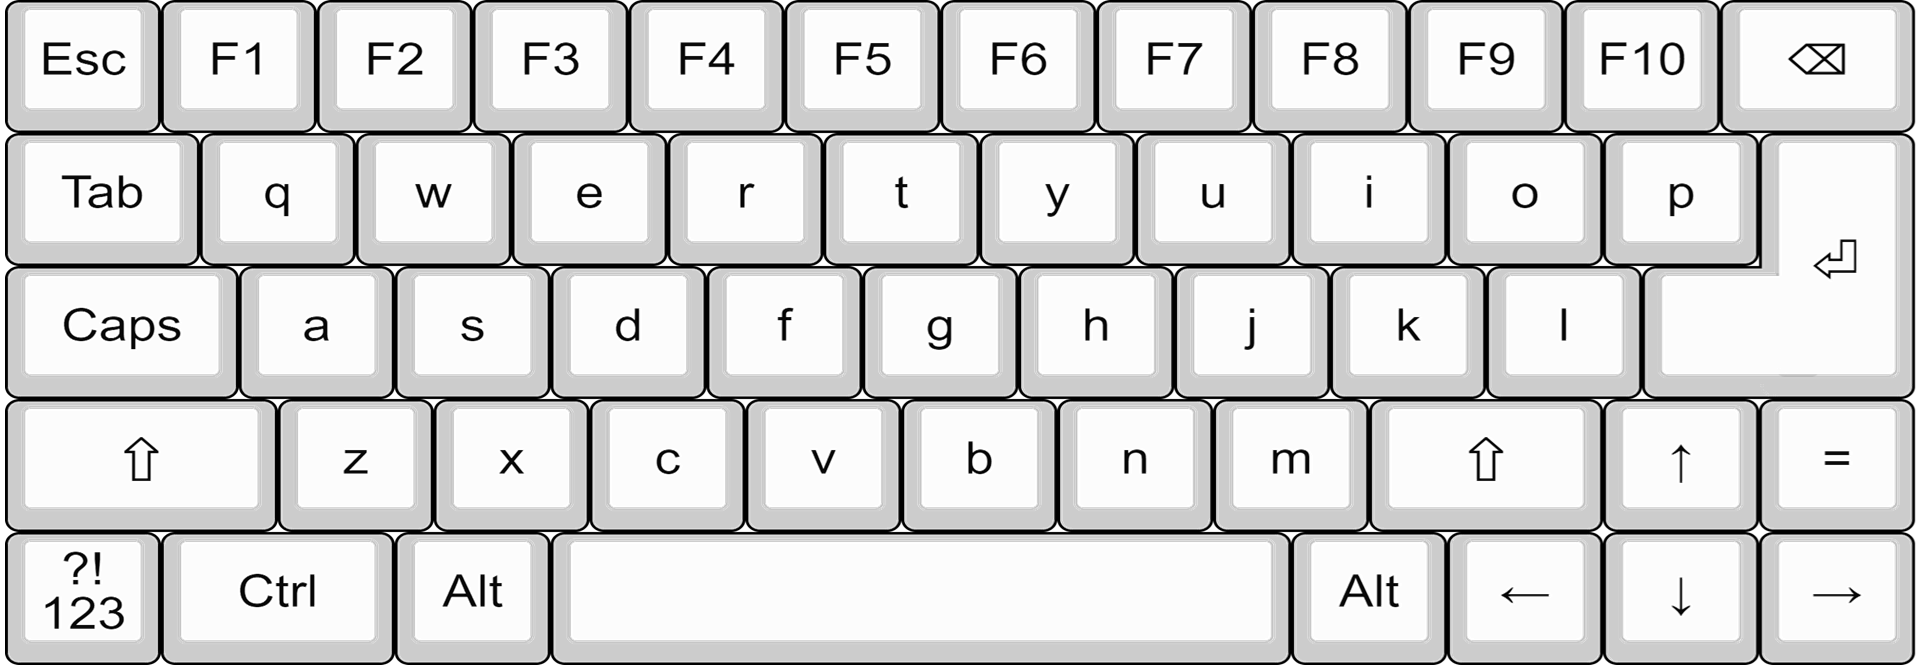
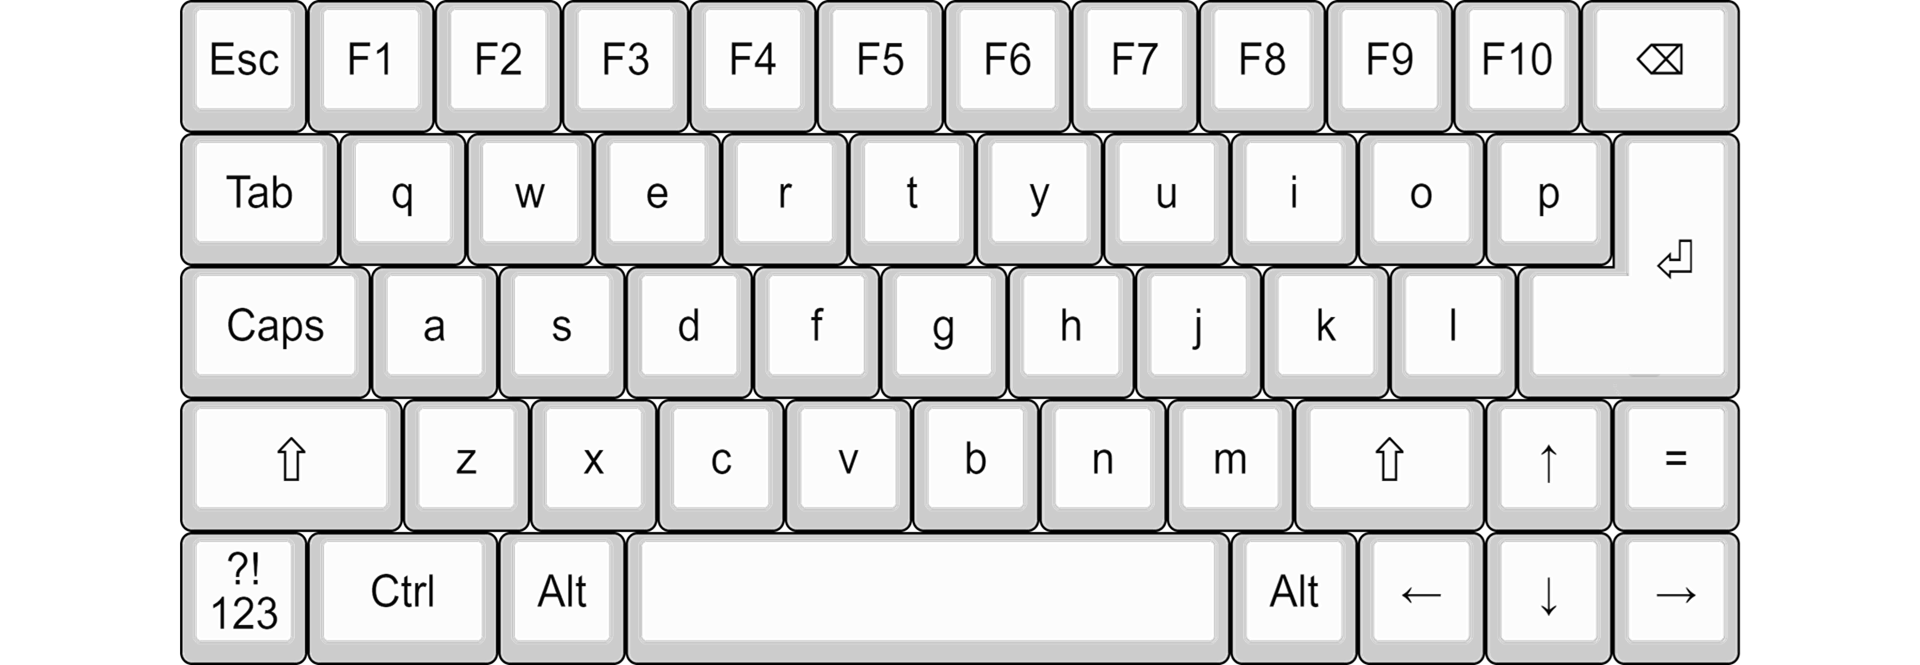
Changed width of the virtual keyboard in landscape mode.

diff --git a/core/src/main/java/com/agifans/agile/GameScreen.java b/core/src/main/java/com/agifans/agile/GameScreen.java
@@ -286,34 +286,32 @@ public class GameScreen implements Screen {
             batch.draw(keyboardType.getTexture(), 0, keyboardType.getRenderOffset());
         } 
         
-        //else if (keyboardType.equals(KeyboardType.OFF)) {
-            // The keyboard and joystick icons are rendered only when an input type isn't
-            // showing.
-            batch.setColor(c.r, c.g, c.b, 0.5f);
-            if (viewportManager.isPortrait()) {
-                batch.draw(joystickIcon, 0, 0);
-                if (Gdx.app.getType().equals(ApplicationType.Android)) {
-                    // Main AGI keyboard on the left.
-                    batch.draw(keyboardIcon, viewportManager.getWidth() - 145, 0);
-                    // Mobile keyboard for debug purpose. Wouldn't normally make this available.
-                    batch.setColor(c.r, c.g, c.b, 0.15f);
-                    batch.draw(keyboardIcon, viewportManager.getWidth() - viewportManager.getWidth() / 2 - 70, 0);
-
-                } else {
-                    // Desktop puts keyboard button in the middle.
-                    batch.draw(keyboardIcon, viewportManager.getWidth() - viewportManager.getWidth() / 2 - 70, 0);
-                    // and the back button on the right.
-                    batch.draw(backIcon, viewportManager.getWidth() - 145, 0);
-                }
+        // The keyboard and joystick icons are rendered only when an input type isn't
+        // showing.
+        batch.setColor(c.r, c.g, c.b, 0.5f);
+        if (viewportManager.isPortrait()) {
+            batch.draw(joystickIcon, 0, 0);
+            if (Gdx.app.getType().equals(ApplicationType.Android)) {
+                // Main AGI keyboard on the left.
+                batch.draw(keyboardIcon, viewportManager.getWidth() - 145, 0);
+                // Mobile keyboard for debug purpose. Wouldn't normally make this available.
+                batch.setColor(c.r, c.g, c.b, 0.15f);
+                batch.draw(keyboardIcon, viewportManager.getWidth() - viewportManager.getWidth() / 2 - 70, 0);
 
             } else {
-                batch.draw(joystickIcon, 0, viewportManager.getHeight() - 140);
-                batch.draw(fullScreenIcon, viewportManager.getWidth() - 150, viewportManager.getHeight() - 140);
-                batch.draw(backIcon, viewportManager.getWidth() - 150, 0);
-                batch.draw(keyboardIcon, 0, 0);
-                
+                // Desktop puts keyboard button in the middle.
+                batch.draw(keyboardIcon, viewportManager.getWidth() - viewportManager.getWidth() / 2 - 70, 0);
+                // and the back button on the right.
+                batch.draw(backIcon, viewportManager.getWidth() - 145, 0);
             }
-        //}
+
+        } else {
+            batch.draw(joystickIcon, 0, viewportManager.getHeight() - 140);
+            batch.draw(fullScreenIcon, viewportManager.getWidth() - 150, viewportManager.getHeight() - 140);
+            batch.draw(backIcon, viewportManager.getWidth() - 150, 0);
+            batch.draw(keyboardIcon, 0, 0);
+            
+        }
         
         batch.end();
         
@@ -322,25 +320,12 @@ public class GameScreen implements Screen {
             float joyX = 0;
             float joyY = 0;
             if (viewportManager.isPortrait()) {
-                //if (joystickPosition != null) {
-                //    portraitTouchpad.setX(joystickPosition.x);
-                //    portraitTouchpad.setY(joystickPosition.y);
-                //} else {
-                    portraitTouchpad.setY(0);
-                //}
                 portraitTouchpad.setY(viewportManager.getHeight() - 1050);
                 portraitTouchpadStage.act(delta);
                 portraitTouchpadStage.draw();
                 joyX = portraitTouchpad.getKnobPercentX();
                 joyY = portraitTouchpad.getKnobPercentY();
             } else {
-                //landscapeTouchpad.setY(0);
-                //if (joystickPosition != null) {
-                //    landscapeTouchpad.setX(joystickPosition.x);
-                //    landscapeTouchpad.setY(joystickPosition.y);
-                //} else {
-                    landscapeTouchpad.setY(0);
-                //}
                 landscapeTouchpad.setY(viewportManager.getHeight() - (viewportManager.getHeight() / 2) - 75);
                 landscapeTouchpadStage.act(delta);
                 landscapeTouchpadStage.draw();

diff --git a/core/src/main/java/com/agifans/agile/ui/KeyboardType.java b/core/src/main/java/com/agifans/agile/ui/KeyboardType.java
@@ -22,10 +22,10 @@ public enum KeyboardType {
             },
             "png/landscape_keyboard_lowercase.png",
             0.4f,
-            150,
+            145,
             0,
-            5,
-            1911,
+            176,
+            1568,
             0
           ),
     LANDSCAPE_UPPER_CASE(
@@ -38,10 +38,10 @@ public enum KeyboardType {
             },
             "png/landscape_keyboard_uppercase.png",
             0.4f,
-            150,
+            145,
             0,
-            5,
-            1911,
+            176,
+            1568,
             0
           ),
     LANDSCAPE_PUNC_NUMBERS(
@@ -54,10 +54,10 @@ public enum KeyboardType {
             },
             "png/landscape_keyboard_punc_numbers.png",
             0.4f,
-            150,
+            145,
             0,
-            5,
-            1911,
+            176,
+            1568,
             0
           ),
     PORTRAIT_LOWER_CASE(
@@ -70,7 +70,7 @@ public enum KeyboardType {
             },
             "png/portrait_keyboard_lowercase.png",
             0.6f,
-            150,
+            145,
             0,
             1,
             -1,
@@ -86,7 +86,7 @@ public enum KeyboardType {
             },
             "png/portrait_keyboard_uppercase.png",
             0.6f,
-            150,
+            145,
             0,
             1,
             -1,
@@ -102,7 +102,7 @@ public enum KeyboardType {
             },
             "png/portrait_keyboard_punc_numbers.png",
             0.6f,
-            150,
+            145,
             0,
             1,
             -1,
@@ -157,6 +157,11 @@ public enum KeyboardType {
     private int yStart;
 
     /**
+     * The width of the active part of the keyboard image, or -1 to deduce from texture width and xStart.
+     */
+    private int activeWidth;
+    
+    /**
      * Constructor for KeyboardType.
      * 
      * @param keyMap         The position of each key within this KeyboardType.
@@ -188,6 +193,7 @@ public enum KeyboardType {
         this.opacity = opacity;
         this.renderOffset = renderOffset;
         this.closeHeight = this.texture.getHeight() + renderOffset + closeBuffer;
+        this.activeWidth = activeWidth;
     }
 
     /**
@@ -247,10 +253,8 @@ public enum KeyboardType {
     public boolean isInKeyboard(float x, float y) {
         if (isRendered()) {
             boolean isInYBounds = (y < (texture.getHeight() + renderOffset) && (y > renderOffset));
-            
-            // In this case, we only need to test the Y position since the keyboard image
-            // will span the whole width.
-            return isInYBounds;
+            boolean isInXBounds = ((x >= xStart) && (x < (xStart + activeWidth)));
+            return isInYBounds && isInXBounds;
             
         } else {
             // isInKeyboard only applies to rendered keyboards.
